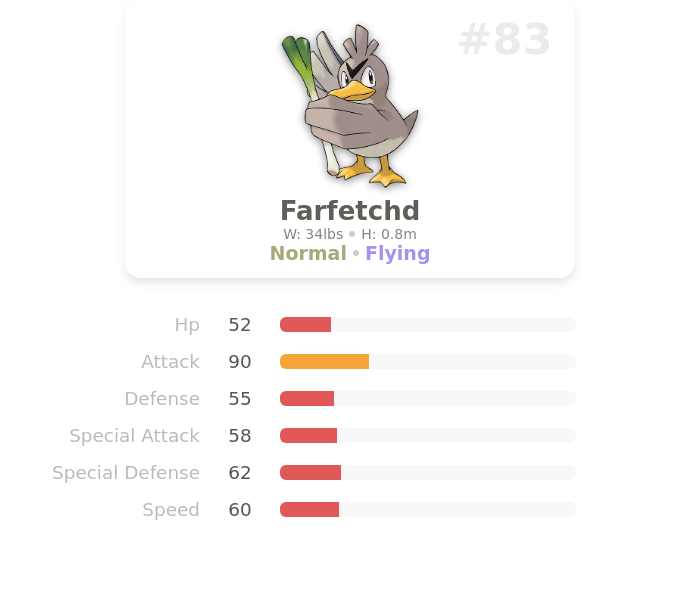
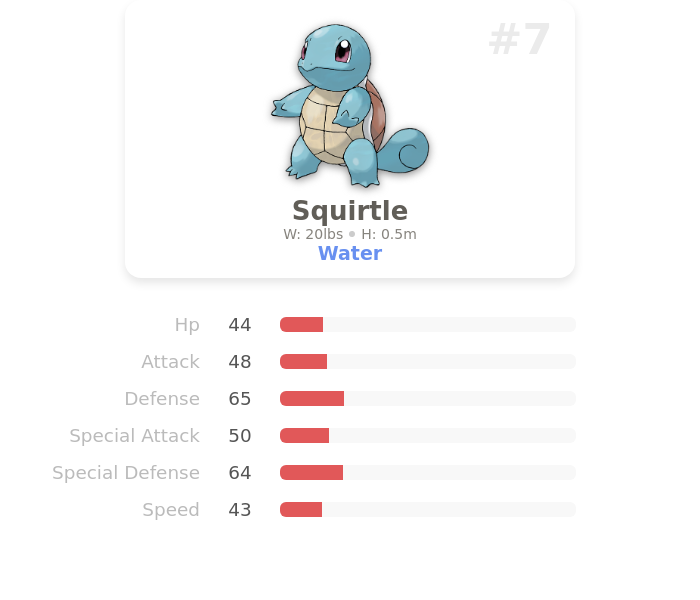
Update README

diff --git a/README.md b/README.md
@@ -1,5 +1,5 @@
 <h4 style="margin-top: 0; margin-bottom: 0;">It's nice to meet you!</h4>
   <p>Look. Is this your favorite pokemon?</p>
-  <a href="https://poke-client.vercel.app/pokemon/farfetchd" target="_blank">
+  <a href="https://poke-client.vercel.app/pokemon/squirtle" target="_blank">
     <img src="pokemon.png" alt="pokemon">
   </a>
